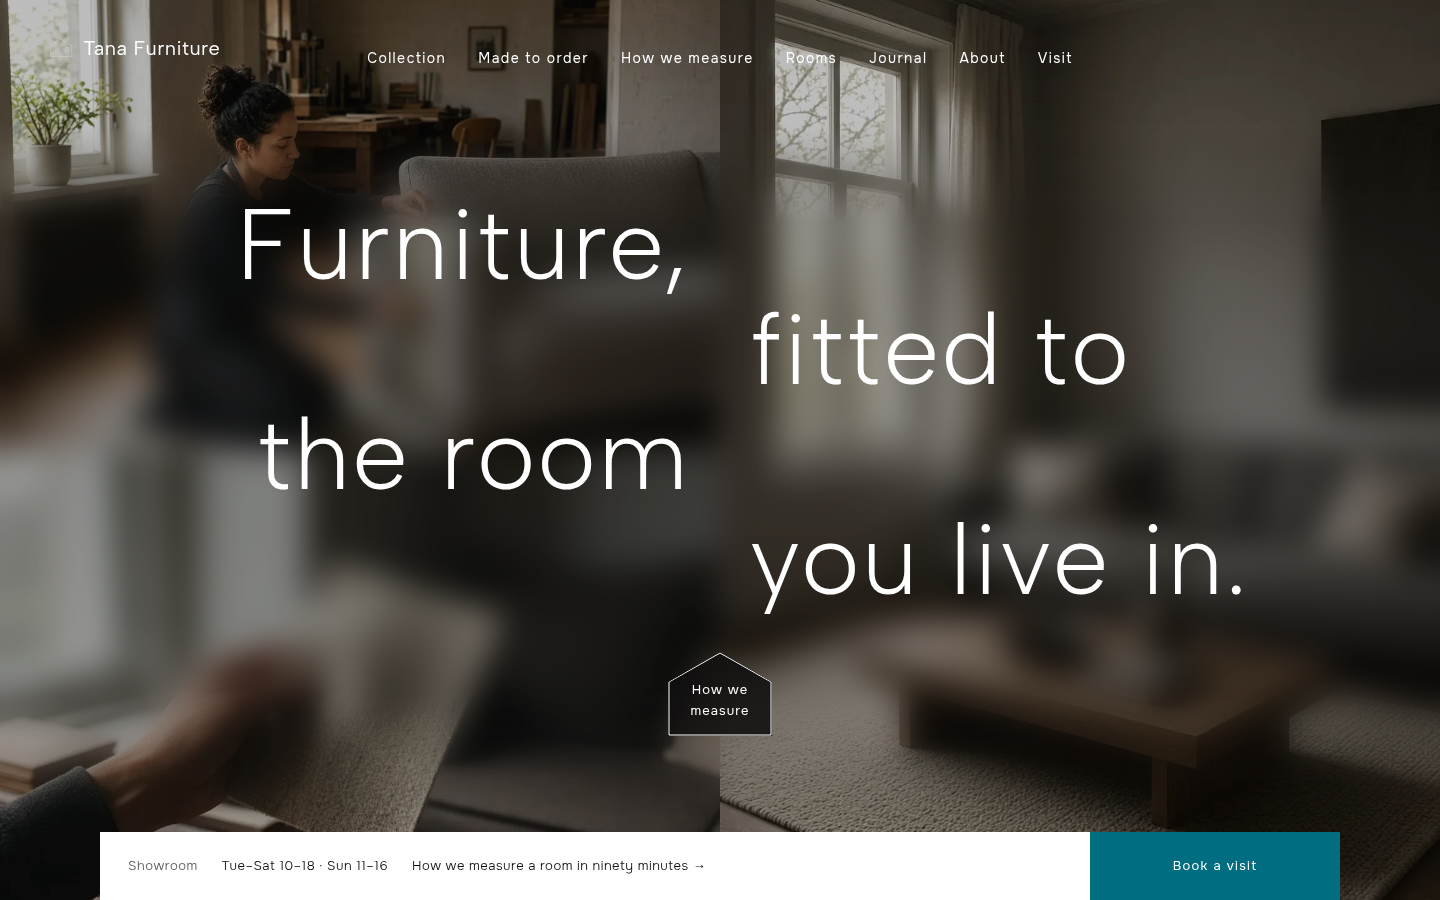
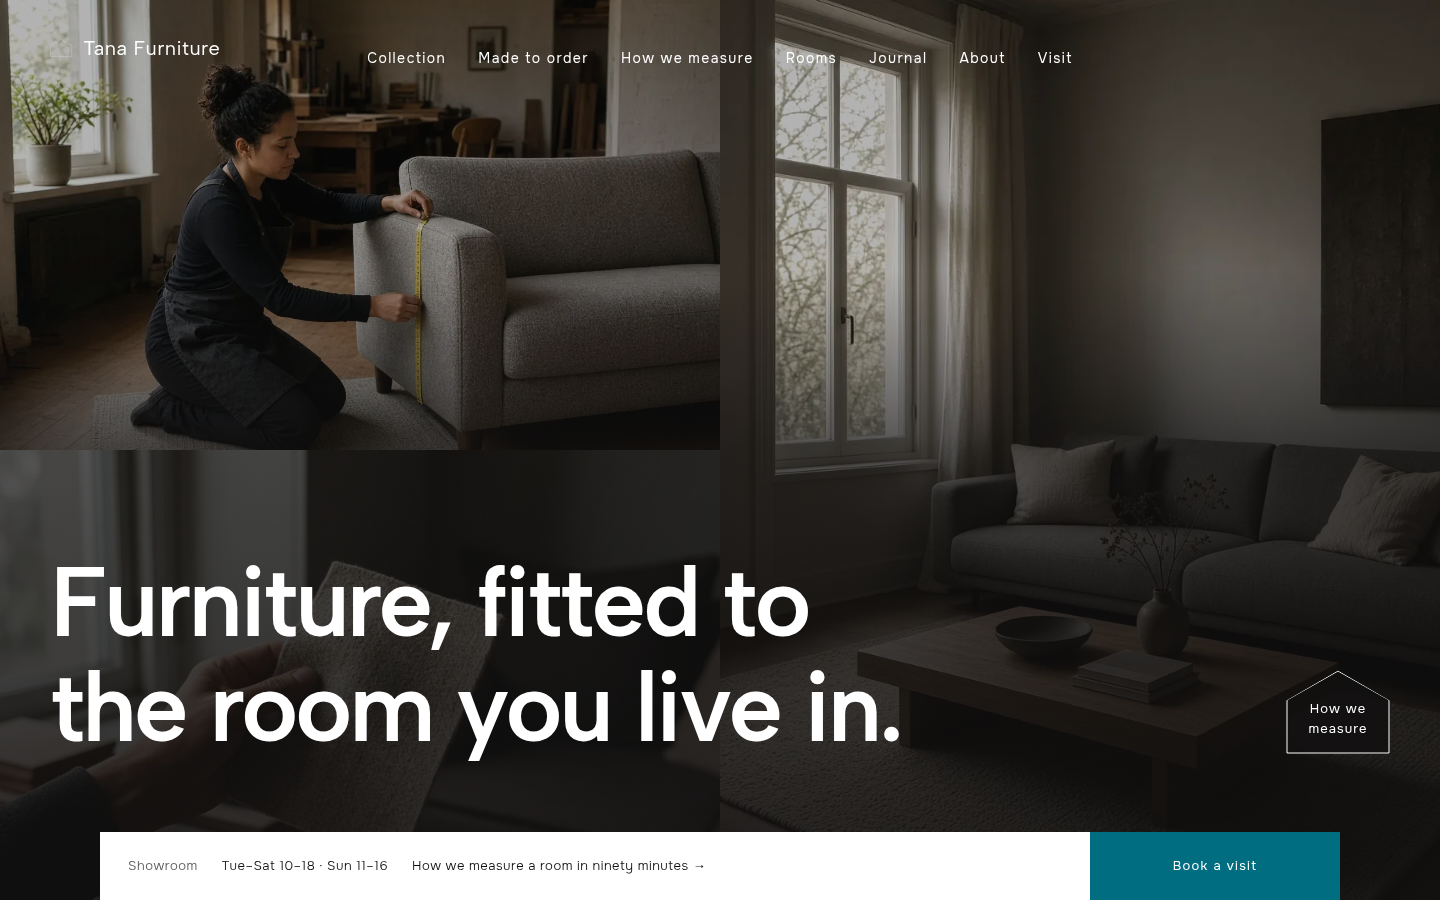
Tana Furniture 1.0.1: editorial hero typography (Fixes #680) (#681)
* Tana Furniture 1.0.1: calm editorial hero typography

* Keep Latin hero copy as semantic text without redundant wrappers

* Cover long CJK titles and the journal's own editorial hero

* Document the 1.0.1 editorial hero instead of the retired zig-zag

* Fix mobile information bar clipping during real hero motion

* fix(tana): keep landscape CJK title clear of photo seam

* fix(tana): use safe three-line CJK at landscape widths

---------

diff --git a/themes/tana-furniture/style.css b/themes/tana-furniture/style.css
@@ -7,7 +7,7 @@ Description: Tana Furniture is a block WordPress theme crafted for independent f
 Requires at least: 6.6
 Tested up to: 7.1
 Requires PHP: 7.4
-Version: 1.0.0
+Version: 1.0.1
 License: GNU General Public License v2 or later
 License URI: https://www.gnu.org/licenses/gpl-2.0.html
 Text Domain: tana-furniture
@@ -69,12 +69,11 @@ a { text-underline-offset: .2em; }
 }
 
 /* ---------- three-pane stage ---------- */
-.tf-stage { position: relative; display: flex; flex-direction: column; justify-content: center; height: clamp(640px, 100svh, 960px); padding: 96px 0 68px; margin: 0; background: var(--wp--preset--color--ink); color: #fff; overflow: clip; }
-.tf-stage--page { height: clamp(480px, 64svh, 720px); padding-bottom: 0; }
+.tf-stage { position: relative; display: flex; flex-direction: column; justify-content: flex-end; box-sizing: border-box; height: clamp(640px, 100svh, 960px); padding: 160px 50px 140px; margin: 0; background: var(--wp--preset--color--ink); color: #fff; overflow: clip; }
+.tf-stage--page { height: clamp(480px, 64svh, 720px); padding-bottom: 64px; }
 .tf-stage--small { height: clamp(320px, 40svh, 420px); }
 .tf-panes { position: absolute; inset: 0; display: grid; grid-template-columns: 1fr 1fr; grid-template-rows: 1fr 1fr; gap: 0; margin: 0; }
-.tf-panes::after { content: ""; position: absolute; inset: 0; z-index: 2; background: linear-gradient(to bottom, rgba(17,16,16,.28) 0, rgba(17,16,16,.28) 100%); pointer-events: none; }
-.tf-panes::before { content: ""; position: absolute; left: 0; right: 0; top: 14%; bottom: 8%; z-index: 2; background: rgba(17,16,16,.16); -webkit-backdrop-filter: blur(16px); backdrop-filter: blur(16px); -webkit-mask-image: linear-gradient(to bottom, transparent 0, #000 14%, #000 80%, transparent 100%); mask-image: linear-gradient(to bottom, transparent 0, #000 14%, #000 80%, transparent 100%); pointer-events: none; }
+.tf-panes::after { content: ""; position: absolute; inset: 0; z-index: 2; background: linear-gradient(to bottom, rgba(17,16,16,.32) 0%, rgba(17,16,16,.32) 30%, rgba(17,16,16,.72) 50%, rgba(17,16,16,.88) 100%); pointer-events: none; }
 .tf-pane { position: relative; min-height: 0; margin: 0; overflow: clip; }
 .tf-pane--tl { grid-column: 1; grid-row: 1; }
 .tf-pane--bl { grid-column: 1; grid-row: 2; }
@@ -83,18 +82,15 @@ a { text-underline-offset: .2em; }
 .tf-pane img { display: block; width: 100%; height: 100%; object-fit: cover; border-radius: 0; }
 .tf-pane__b { position: absolute !important; inset: 0; height: auto !important; opacity: 0; }
 .tf-pane .wp-block-post-featured-image { height: 100%; margin: 0; }
-.tf-stage__copy { position: relative; z-index: 3; width: 100%; margin: 0; padding: 0; }
-.tf-h1 { margin: 0; color: #fff; font-size: var(--wp--preset--font-size--huge); font-weight: 300; line-height: 1.05; letter-spacing: .02em; transform-origin: 50% 50%; }
-.tf-stage--page .tf-h1 { font-size: var(--wp--preset--font-size--xx-large); }
-.tf-stage--small .tf-h1 { font-size: var(--wp--preset--font-size--x-large); }
-.tf-h1--query, .tf-h1--post { padding: 0 20px; max-width: 50%; margin-left: 0; text-align: left; font-size: var(--wp--preset--font-size--x-large); line-height: 1.2; }
-.tf-step { display: block; box-sizing: border-box; }
-@media (min-width: 1100px) and (max-width: 1599px) { .tf-stage:not(.tf-stage--page):not(.tf-stage--small) .tf-h1 { font-size: clamp(2.75rem, 5vw, 4.5rem); } }
-.tf-step:nth-child(odd) { width: 50%; padding-right: .3em; text-align: right; }
-.tf-step:nth-child(even) { margin-left: 50%; padding-left: .3em; text-align: left; }
-.tf-stage .tf-stamp { margin: 40px 0 0 calc(50% - 52px); }
-.tf-stage--page .tf-stamp { margin-top: 28px; }
-.tf-stage--small .tf-stamp { margin-top: 16px; }
+/* One editorial block, aligned with the logo; the stamp has its own column. */
+.tf-stage__copy { position: relative; z-index: 3; display: grid; grid-template-columns: minmax(0, 1fr) 104px; align-items: end; gap: 24px 48px; width: 100%; max-width: 1340px; margin: 0 auto; padding: 0; }
+.tf-h1 { margin: 0; max-width: 22ch; color: #fff; font-size: clamp(4.5rem, 6.8vw, 6.5rem); font-weight: 600; line-height: 1.08; letter-spacing: -.035em; text-align: left; text-wrap: balance; overflow-wrap: break-word; transform-origin: left bottom; }
+.tf-stage--page .tf-h1 { font-size: clamp(3.5rem, 5.2vw, 5rem); }
+.tf-stage--small .tf-h1 { font-size: clamp(2.5rem, 4vw, 3.75rem); }
+.tf-h1--query, .tf-h1--post { max-width: 24ch; }
+.tf-phrase { display: inline; }
+.tf-stage .tf-stamp { margin: 0 0 .35rem; }
+.tf-stage__copy > .tf-label { grid-column: 1 / -1; margin: 0; text-align: left; }
 
 /* pentagon house-outline stamp (single CTA) */
 .tf-stamp { width: 104px; margin: 0; padding: 0; line-height: 1.6; }
@@ -123,7 +119,7 @@ a { text-underline-offset: .2em; }
 	html:not(.sp-no-motion) .tf-stage .tf-pane__b { animation: tf-swap 12s ease-in-out 4s infinite; }
 }
 @keyframes tf-fade { from { opacity: 0; } to { opacity: 1; } }
-@keyframes tf-settle { from { transform: scale(1.3); } to { transform: scale(1); } }
+@keyframes tf-settle { from { opacity: 0; transform: scale(1.06); } to { opacity: 1; transform: scale(1); } }
 @keyframes tf-rise { from { opacity: 0; transform: translate3d(0, 20px, 0); } to { opacity: 1; transform: none; } }
 @keyframes tf-rise-bar { from { opacity: 0; transform: translate3d(-50%, 20px, 0); } to { opacity: 1; transform: translate3d(-50%, 0, 0); } }
 @keyframes tf-swap { 0%, 40% { opacity: 0; } 50%, 90% { opacity: 1; } 100% { opacity: 0; } }
@@ -310,20 +306,19 @@ a { text-underline-offset: .2em; }
 @media (max-width: 781px) {
 	.tf-sec { padding: 64px 20px; }
 	.tf-stage, .tf-stage--page, .tf-stage--small { display: flex; height: auto; padding: 88px 0 0; }
-	.tf-stage__copy { order: 1; padding: 0 20px 32px; }
+	.tf-stage__copy { order: 1; grid-template-columns: minmax(0, 1fr); gap: 24px; box-sizing: border-box; padding: 24px 20px 36px; }
 	.tf-panes { order: 2; position: relative; inset: auto; grid-template-columns: 1fr 1fr; grid-template-rows: auto; }
 	.tf-pane--tl { grid-column: 1; grid-row: 1; aspect-ratio: 1; }
 	.tf-pane--bl { grid-column: 2; grid-row: 1; aspect-ratio: 1; }
 	.tf-pane--r { grid-column: 1 / 3; grid-row: 2; aspect-ratio: 4 / 3; }
-	.tf-bar { order: 3; position: static; display: block; width: 100%; height: auto; transform: none; }
-	.tf-bar__text { flex-wrap: wrap; gap: .25rem 1rem; padding: 16px 20px; }
-	.tf-bar p { white-space: normal; }
+	.tf-bar { order: 3; position: static; display: block; box-sizing: border-box; width: 100%; max-width: 100%; height: auto; margin: 0; transform: none; }
+	html:not(.sp-no-motion) .tf-stage .tf-bar { animation: none; }
+	.tf-bar__text { display: grid; grid-template-columns: minmax(0, 1fr); gap: .35rem; width: 100%; box-sizing: border-box; padding: 16px 20px; }
+	.tf-bar p { min-width: 0; max-width: 100%; white-space: normal; overflow: visible; text-overflow: clip; overflow-wrap: anywhere; }
 	.tf-bar__btn .wp-block-button, .tf-bar__btn .wp-block-button__link { width: 100%; }
-	.tf-h1, .tf-stage--page .tf-h1, .tf-stage--small .tf-h1 { font-size: clamp(2.6rem, 11vw, 3.25rem); line-height: 1.05; }
-	.tf-step:nth-child(odd), .tf-step:nth-child(even) { width: auto; margin-left: 0; padding: 0; text-align: left; }
-	.tf-step:nth-child(even) { padding-left: 1.2em; }
-	.tf-h1--query, .tf-h1--post { max-width: none; font-size: 2.1rem; padding: 0; }
-	.tf-stage .tf-stamp, .tf-stage--page .tf-stamp, .tf-stage--small .tf-stamp { margin: 28px 0 0; }
+	.tf-h1, .tf-stage--page .tf-h1, .tf-stage--small .tf-h1 { max-width: 22ch; font-size: clamp(2.5rem, 10.8vw, 3.25rem); line-height: 1.08; }
+	.tf-h1--query, .tf-h1--post { max-width: 24ch; }
+	.tf-stage .tf-stamp { margin: 0; }
 	.tf-pair { grid-template-columns: 1fr; gap: 30px; }
 	.tf-tiles { grid-template-columns: repeat(2, minmax(0, 1fr)); }
 	.tf-tile { padding: 0 14px; }
@@ -356,7 +351,6 @@ a { text-underline-offset: .2em; }
 @media (max-width: 781px) { .tf-textcard { padding: 28px 24px; } }
 .tf-foot__grid, .tf-foot__base { max-width: 1240px; width: 100%; margin-left: auto; margin-right: auto; }
 .tf-stage .tf-pane img { filter: saturate(1.05) brightness(1.05); }
-@media (max-width: 1199px) and (min-width: 782px) { .tf-stage .tf-panes::after { background: rgba(17, 16, 16, .5); } .tf-stage .tf-pane img { filter: blur(2px); } }
 @media (max-width: 781px) {
 	.tf-stage .tf-panes::after { background: rgba(17, 16, 16, .12); }
 	.tf-stage .tf-pane img { filter: none; }
@@ -427,3 +421,19 @@ a { text-underline-offset: .2em; }
 :is(:lang(zh), :lang(ja)) :is(.tf-label, .is-style-bracket-label, .tf-nav) { letter-spacing: .06em; }
 :lang(ja) :is(h1, h2, h3, p, li) { word-break: auto-phrase; }
 :is(:lang(fr), :lang(de)) :is(h1, h2, h3, p, li, td) { hyphens: auto; overflow-wrap: break-word; }
+
+/* Keep CJK phrases together; the markup supplies explicit safe wrap opportunities. */
+:is(:lang(zh), :lang(ja)) .tf-h1 { font-size: clamp(3rem, 4.8vw, 4.75rem); font-weight: 600; line-height: 1.1; letter-spacing: -.025em; word-break: keep-all; line-break: strict; overflow-wrap: normal; }
+:is(:lang(zh), :lang(ja)) .tf-h1 .tf-phrase { white-space: nowrap; }
+:is(:lang(fr), :lang(de)) .tf-h1 { hyphens: none; }
+@media (max-width: 781px) {
+  :is(:lang(zh), :lang(ja)) .tf-h1 { font-size: clamp(1.875rem, 7.8vw, 2.75rem); }
+}
+
+/* User-authored post/archive titles do not have the demo's explicit phrase spans. */
+:is(:lang(zh), :lang(ja)) :is(.tf-h1--post, .tf-h1--query) { word-break: normal; word-break: auto-phrase; overflow-wrap: break-word; }
+
+/* Keep the smaller desktop photo/text seam comfortably clear at tablet-landscape widths. */
+@media (min-width: 782px) and (max-width: 1199px) {
+  :is(:lang(zh), :lang(ja)) .tf-stage:not(.tf-stage--page) .tf-h1 { max-width: 11ch; }
+}

diff --git a/themes/tana-furniture/templates/home.html b/themes/tana-furniture/templates/home.html
@@ -1,7 +1,7 @@
 <!-- wp:template-part {"slug":"header","area":"header","tagName":"header","className":"tf-head-part"} /-->
 
 <!-- wp:group {"tagName":"main","className":"tf-main","layout":{"type":"default"}} -->
-<main class="wp-block-group tf-main"><!-- wp:pattern {"slug":"tana-furniture/tpl-stage-archive"} /-->
+<main class="wp-block-group tf-main"><!-- wp:pattern {"slug":"tana-furniture/stage-journal"} /-->
 
 <!-- wp:pattern {"slug":"tana-furniture/tpl-cards"} /-->
 

diff --git a/themes/tana-furniture/patterns/stage-collection.php b/themes/tana-furniture/patterns/stage-collection.php
@@ -4,7 +4,7 @@
  * Slug: tana-furniture/stage-collection
  * Categories: tana-furniture
  * Inserter: no
- * Description: The three-photo stage with the stepped headline and the pentagon stamp.
+ * Description: The three-photo stage with an editorial headline and the pentagon stamp.
  */
 ?>
 <!-- wp:group {"tagName":"section","align":"full","className":"tf-stage tf-stage--page","layout":{"type":"default"}} -->
@@ -30,7 +30,7 @@
 
 <!-- wp:group {"className":"tf-stage__copy","layout":{"type":"default"}} -->
 <div class="wp-block-group tf-stage__copy"><!-- wp:heading {"level":1,"className":"tf-h1"} -->
-<h1 class="wp-block-heading tf-h1"><span class="tf-step"><?php echo esc_html( tana_furniture_t( 'sg_collection_h1_1' ) ); ?></span><span class="tf-step"><?php echo esc_html( tana_furniture_t( 'sg_collection_h1_2' ) ); ?></span><span class="tf-step"><?php echo esc_html( tana_furniture_t( 'sg_collection_h1_3' ) ); ?></span></h1>
+<h1 class="wp-block-heading tf-h1"><?php echo tana_furniture_hero( array( 'sg_collection_h1_1', 'sg_collection_h1_2', 'sg_collection_h1_3' ) ); ?></h1>
 <!-- /wp:heading -->
 
 <!-- wp:paragraph {"className":"is-style-stamp tf-stamp"} -->

diff --git a/themes/tana-furniture/patterns/stage-about.php b/themes/tana-furniture/patterns/stage-about.php
@@ -4,7 +4,7 @@
  * Slug: tana-furniture/stage-about
  * Categories: tana-furniture
  * Inserter: no
- * Description: The three-photo stage with the stepped headline and the pentagon stamp.
+ * Description: The three-photo stage with an editorial headline and the pentagon stamp.
  */
 ?>
 <!-- wp:group {"tagName":"section","align":"full","className":"tf-stage tf-stage--page","layout":{"type":"default"}} -->
@@ -30,7 +30,7 @@
 
 <!-- wp:group {"className":"tf-stage__copy","layout":{"type":"default"}} -->
 <div class="wp-block-group tf-stage__copy"><!-- wp:heading {"level":1,"className":"tf-h1"} -->
-<h1 class="wp-block-heading tf-h1"><span class="tf-step"><?php echo esc_html( tana_furniture_t( 'sg_about_h1_1' ) ); ?></span><span class="tf-step"><?php echo esc_html( tana_furniture_t( 'sg_about_h1_2' ) ); ?></span><span class="tf-step"><?php echo esc_html( tana_furniture_t( 'sg_about_h1_3' ) ); ?></span></h1>
+<h1 class="wp-block-heading tf-h1"><?php echo tana_furniture_hero( array( 'sg_about_h1_1', 'sg_about_h1_2', 'sg_about_h1_3' ) ); ?></h1>
 <!-- /wp:heading -->
 
 <!-- wp:paragraph {"className":"is-style-stamp tf-stamp"} -->

diff --git a/themes/tana-furniture/patterns/stage-newsletter.php b/themes/tana-furniture/patterns/stage-newsletter.php
@@ -4,7 +4,7 @@
  * Slug: tana-furniture/stage-newsletter
  * Categories: tana-furniture
  * Inserter: no
- * Description: The three-photo stage with the stepped headline and the pentagon stamp.
+ * Description: The three-photo stage with an editorial headline and the pentagon stamp.
  */
 ?>
 <!-- wp:group {"tagName":"section","align":"full","className":"tf-stage tf-stage--page","layout":{"type":"default"}} -->
@@ -30,7 +30,7 @@
 
 <!-- wp:group {"className":"tf-stage__copy","layout":{"type":"default"}} -->
 <div class="wp-block-group tf-stage__copy"><!-- wp:heading {"level":1,"className":"tf-h1"} -->
-<h1 class="wp-block-heading tf-h1"><span class="tf-step"><?php echo esc_html( tana_furniture_t( 'sg_newsletter_h1_1' ) ); ?></span><span class="tf-step"><?php echo esc_html( tana_furniture_t( 'sg_newsletter_h1_2' ) ); ?></span></h1>
+<h1 class="wp-block-heading tf-h1"><?php echo tana_furniture_hero( array( 'sg_newsletter_h1_1', 'sg_newsletter_h1_2' ) ); ?></h1>
 <!-- /wp:heading -->
 
 <!-- wp:paragraph {"className":"is-style-stamp tf-stamp"} -->

diff --git a/themes/tana-furniture/patterns/stage-delivery.php b/themes/tana-furniture/patterns/stage-delivery.php
@@ -4,7 +4,7 @@
  * Slug: tana-furniture/stage-delivery
  * Categories: tana-furniture
  * Inserter: no
- * Description: The three-photo stage with the stepped headline and the pentagon stamp.
+ * Description: The three-photo stage with an editorial headline and the pentagon stamp.
  */
 ?>
 <!-- wp:group {"tagName":"section","align":"full","className":"tf-stage tf-stage--page","layout":{"type":"default"}} -->
@@ -30,7 +30,7 @@
 
 <!-- wp:group {"className":"tf-stage__copy","layout":{"type":"default"}} -->
 <div class="wp-block-group tf-stage__copy"><!-- wp:heading {"level":1,"className":"tf-h1"} -->
-<h1 class="wp-block-heading tf-h1"><span class="tf-step"><?php echo esc_html( tana_furniture_t( 'sg_delivery_h1_1' ) ); ?></span><span class="tf-step"><?php echo esc_html( tana_furniture_t( 'sg_delivery_h1_2' ) ); ?></span></h1>
+<h1 class="wp-block-heading tf-h1"><?php echo tana_furniture_hero( array( 'sg_delivery_h1_1', 'sg_delivery_h1_2' ) ); ?></h1>
 <!-- /wp:heading -->
 
 <!-- wp:paragraph {"className":"is-style-stamp tf-stamp"} -->

diff --git a/themes/tana-furniture/patterns/stage-contact.php b/themes/tana-furniture/patterns/stage-contact.php
@@ -4,7 +4,7 @@
  * Slug: tana-furniture/stage-contact
  * Categories: tana-furniture
  * Inserter: no
- * Description: The three-photo stage with the stepped headline and the pentagon stamp.
+ * Description: The three-photo stage with an editorial headline and the pentagon stamp.
  */
 ?>
 <!-- wp:group {"tagName":"section","align":"full","className":"tf-stage tf-stage--page","layout":{"type":"default"}} -->
@@ -30,7 +30,7 @@
 
 <!-- wp:group {"className":"tf-stage__copy","layout":{"type":"default"}} -->
 <div class="wp-block-group tf-stage__copy"><!-- wp:heading {"level":1,"className":"tf-h1"} -->
-<h1 class="wp-block-heading tf-h1"><span class="tf-step"><?php echo esc_html( tana_furniture_t( 'sg_contact_h1_1' ) ); ?></span><span class="tf-step"><?php echo esc_html( tana_furniture_t( 'sg_contact_h1_2' ) ); ?></span></h1>
+<h1 class="wp-block-heading tf-h1"><?php echo tana_furniture_hero( array( 'sg_contact_h1_1', 'sg_contact_h1_2' ) ); ?></h1>
 <!-- /wp:heading -->
 
 <!-- wp:paragraph {"className":"is-style-stamp tf-stamp"} -->

diff --git a/themes/tana-furniture/patterns/stage-journal.php b/themes/tana-furniture/patterns/stage-journal.php
@@ -4,7 +4,7 @@
  * Slug: tana-furniture/stage-journal
  * Categories: tana-furniture
  * Inserter: no
- * Description: The three-photo stage with the stepped headline and the pentagon stamp.
+ * Description: The three-photo stage with an editorial headline and the pentagon stamp.
  */
 ?>
 <!-- wp:group {"tagName":"section","align":"full","className":"tf-stage tf-stage--page","layout":{"type":"default"}} -->
@@ -30,7 +30,7 @@
 
 <!-- wp:group {"className":"tf-stage__copy","layout":{"type":"default"}} -->
 <div class="wp-block-group tf-stage__copy"><!-- wp:heading {"level":1,"className":"tf-h1"} -->
-<h1 class="wp-block-heading tf-h1"><span class="tf-step"><?php echo esc_html( tana_furniture_t( 'sg_journal_h1_1' ) ); ?></span><span class="tf-step"><?php echo esc_html( tana_furniture_t( 'sg_journal_h1_2' ) ); ?></span></h1>
+<h1 class="wp-block-heading tf-h1"><?php echo tana_furniture_hero( array( 'sg_journal_h1_1', 'sg_journal_h1_2' ) ); ?></h1>
 <!-- /wp:heading -->
 
 <!-- wp:paragraph {"className":"is-style-stamp tf-stamp"} -->

diff --git a/themes/tana-furniture/patterns/stage-measure.php b/themes/tana-furniture/patterns/stage-measure.php
@@ -4,7 +4,7 @@
  * Slug: tana-furniture/stage-measure
  * Categories: tana-furniture
  * Inserter: no
- * Description: The three-photo stage with the stepped headline and the pentagon stamp.
+ * Description: The three-photo stage with an editorial headline and the pentagon stamp.
  */
 ?>
 <!-- wp:group {"tagName":"section","align":"full","className":"tf-stage tf-stage--page","layout":{"type":"default"}} -->
@@ -30,7 +30,7 @@
 
 <!-- wp:group {"className":"tf-stage__copy","layout":{"type":"default"}} -->
 <div class="wp-block-group tf-stage__copy"><!-- wp:heading {"level":1,"className":"tf-h1"} -->
-<h1 class="wp-block-heading tf-h1"><span class="tf-step"><?php echo esc_html( tana_furniture_t( 'sg_measure_h1_1' ) ); ?></span><span class="tf-step"><?php echo esc_html( tana_furniture_t( 'sg_measure_h1_2' ) ); ?></span></h1>
+<h1 class="wp-block-heading tf-h1"><?php echo tana_furniture_hero( array( 'sg_measure_h1_1', 'sg_measure_h1_2' ) ); ?></h1>
 <!-- /wp:heading -->
 
 <!-- wp:paragraph {"className":"is-style-stamp tf-stamp"} -->

diff --git a/themes/tana-furniture/patterns/stage-prices.php b/themes/tana-furniture/patterns/stage-prices.php
@@ -4,7 +4,7 @@
  * Slug: tana-furniture/stage-prices
  * Categories: tana-furniture
  * Inserter: no
- * Description: The three-photo stage with the stepped headline and the pentagon stamp.
+ * Description: The three-photo stage with an editorial headline and the pentagon stamp.
  */
 ?>
 <!-- wp:group {"tagName":"section","align":"full","className":"tf-stage tf-stage--page","layout":{"type":"default"}} -->
@@ -30,7 +30,7 @@
 
 <!-- wp:group {"className":"tf-stage__copy","layout":{"type":"default"}} -->
 <div class="wp-block-group tf-stage__copy"><!-- wp:heading {"level":1,"className":"tf-h1"} -->
-<h1 class="wp-block-heading tf-h1"><span class="tf-step"><?php echo esc_html( tana_furniture_t( 'sg_prices_h1_1' ) ); ?></span><span class="tf-step"><?php echo esc_html( tana_furniture_t( 'sg_prices_h1_2' ) ); ?></span></h1>
+<h1 class="wp-block-heading tf-h1"><?php echo tana_furniture_hero( array( 'sg_prices_h1_1', 'sg_prices_h1_2' ) ); ?></h1>
 <!-- /wp:heading -->
 
 <!-- wp:paragraph {"className":"is-style-stamp tf-stamp"} -->

diff --git a/themes/tana-furniture/patterns/stage-rooms.php b/themes/tana-furniture/patterns/stage-rooms.php
@@ -4,7 +4,7 @@
  * Slug: tana-furniture/stage-rooms
  * Categories: tana-furniture
  * Inserter: no
- * Description: The three-photo stage with the stepped headline and the pentagon stamp.
+ * Description: The three-photo stage with an editorial headline and the pentagon stamp.
  */
 ?>
 <!-- wp:group {"tagName":"section","align":"full","className":"tf-stage tf-stage--page","layout":{"type":"default"}} -->
@@ -30,7 +30,7 @@
 
 <!-- wp:group {"className":"tf-stage__copy","layout":{"type":"default"}} -->
 <div class="wp-block-group tf-stage__copy"><!-- wp:heading {"level":1,"className":"tf-h1"} -->
-<h1 class="wp-block-heading tf-h1"><span class="tf-step"><?php echo esc_html( tana_furniture_t( 'sg_rooms_h1_1' ) ); ?></span><span class="tf-step"><?php echo esc_html( tana_furniture_t( 'sg_rooms_h1_2' ) ); ?></span></h1>
+<h1 class="wp-block-heading tf-h1"><?php echo tana_furniture_hero( array( 'sg_rooms_h1_1', 'sg_rooms_h1_2' ) ); ?></h1>
 <!-- /wp:heading -->
 
 <!-- wp:paragraph {"className":"is-style-stamp tf-stamp"} -->

diff --git a/themes/tana-furniture/patterns/stage-small.php b/themes/tana-furniture/patterns/stage-small.php
@@ -4,7 +4,7 @@
  * Slug: tana-furniture/stage-small
  * Categories: tana-furniture
  * Inserter: no
- * Description: The three-photo stage with the stepped headline and the pentagon stamp.
+ * Description: The three-photo stage with an editorial headline and the pentagon stamp.
  */
 ?>
 <!-- wp:group {"tagName":"section","align":"full","className":"tf-stage tf-stage--page","layout":{"type":"default"}} -->
@@ -30,7 +30,7 @@
 
 <!-- wp:group {"className":"tf-stage__copy","layout":{"type":"default"}} -->
 <div class="wp-block-group tf-stage__copy"><!-- wp:heading {"level":1,"className":"tf-h1"} -->
-<h1 class="wp-block-heading tf-h1"><span class="tf-step"><?php echo esc_html( tana_furniture_t( 'sg_small_h1_1' ) ); ?></span><span class="tf-step"><?php echo esc_html( tana_furniture_t( 'sg_small_h1_2' ) ); ?></span></h1>
+<h1 class="wp-block-heading tf-h1"><?php echo tana_furniture_hero( array( 'sg_small_h1_1', 'sg_small_h1_2' ) ); ?></h1>
 <!-- /wp:heading -->
 
 <!-- wp:paragraph {"className":"is-style-stamp tf-stamp"} -->
